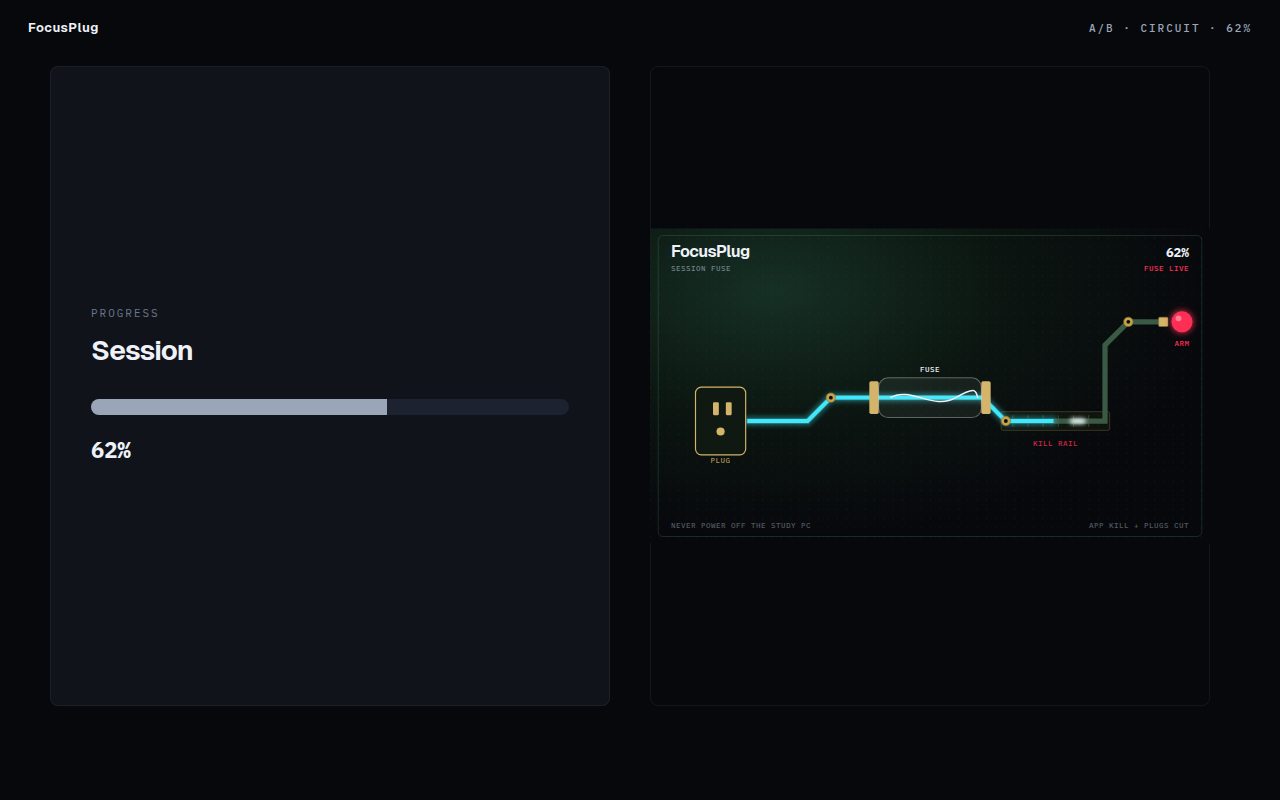
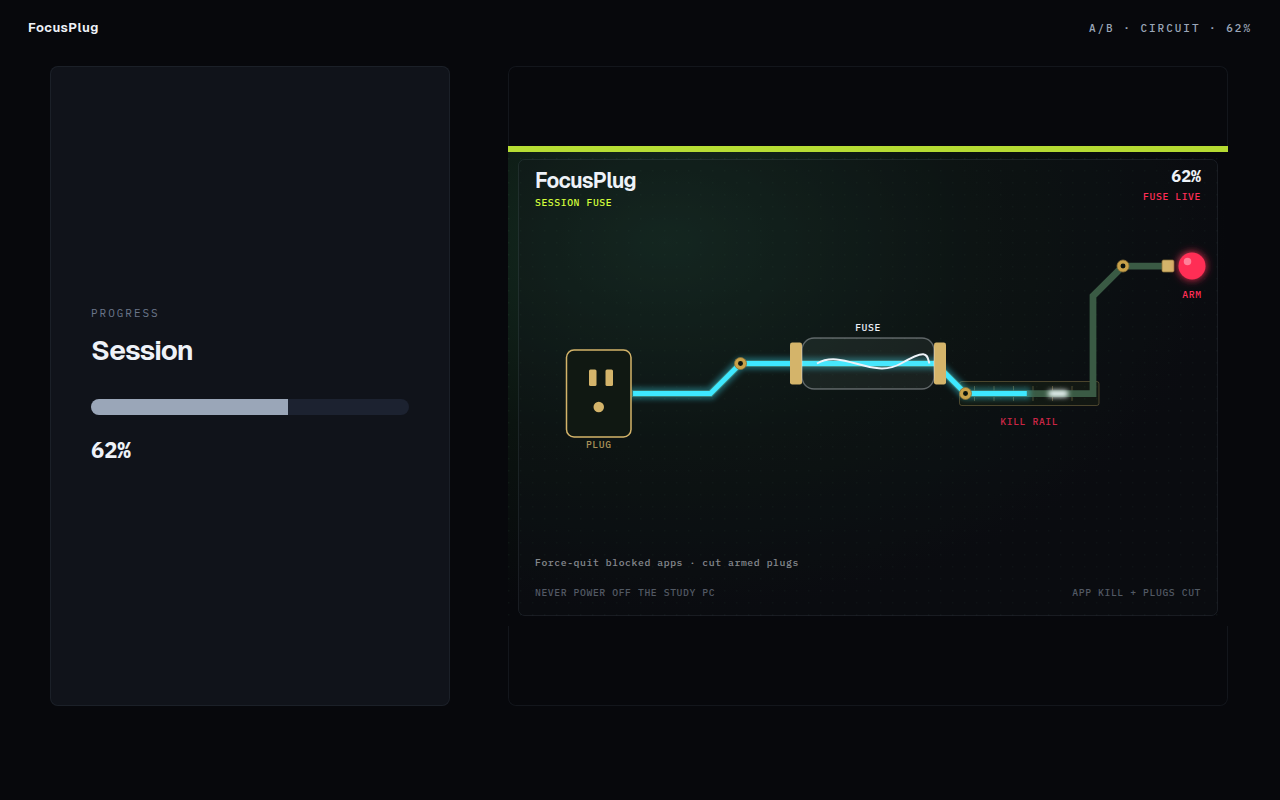
faces: Circuit fills the console pane with lime chrome
Taller fuse-plate viewBox, lime title bar, session-consequence copy,
and a wider A/B pane so Circuit is a product surface, not a stamp.

diff --git a/src/renderer/src/features/faces/circuit/CircuitFace.tsx b/src/renderer/src/features/faces/circuit/CircuitFace.tsx
@@ -67,21 +67,22 @@ export function CircuitFace(props: FaceProps): JSX.Element {
 
         <rect width={CIRCUIT_VIEW.width} height={CIRCUIT_VIEW.height} fill="url(#fp-circuit-wash)" />
         <rect width={CIRCUIT_VIEW.width} height={CIRCUIT_VIEW.height} fill="url(#fp-circuit-grid)" />
+        <rect x="0" y="0" width={CIRCUIT_VIEW.width} height="8" fill="#d4ff3a" opacity="0.85" />
         <rect
           x="14"
-          y="12"
+          y="18"
           width={CIRCUIT_VIEW.width - 28}
-          height={CIRCUIT_VIEW.height - 24}
+          height={CIRCUIT_VIEW.height - 32}
           rx="8"
-          fill="none"
-          stroke="rgba(90, 160, 110, 0.28)"
-          strokeWidth="1.4"
+          fill="rgba(16,19,26,0.35)"
+          stroke="rgba(170, 190, 220, 0.12)"
+          strokeWidth="1.2"
         />
 
-        <text x={36} y={48} className="fp-circuit-word" fill="#eef2f8">
+        <text x={36} y={56} className="fp-circuit-word" fill="#eef2f8">
           FocusPlug
         </text>
-        <text x={36} y={72} className="fp-circuit-silk" fill="rgba(155,166,184,0.72)">
+        <text x={36} y={80} className="fp-circuit-silk" fill="#d4ff3a">
           SESSION FUSE
         </text>
         <text
@@ -129,12 +130,15 @@ export function CircuitFace(props: FaceProps): JSX.Element {
           {complete ? "ON" : "ARM"}
         </text>
 
-        <text x={36} y={514} className="fp-circuit-silk" fill="rgba(155,166,184,0.5)">
+        <text x={36} y={560} className="fp-circuit-silk" fill="rgba(238,242,248,0.55)">
+          Force-quit blocked apps · cut armed plugs
+        </text>
+        <text x={36} y={600} className="fp-circuit-silk" fill="rgba(155,166,184,0.5)">
           NEVER POWER OFF THE STUDY PC
         </text>
         <text
           x={CIRCUIT_VIEW.width - 36}
-          y={514}
+          y={600}
           textAnchor="end"
           className="fp-circuit-silk"
           fill="rgba(155,166,184,0.5)"

diff --git a/src/renderer/src/features/faces/preview/FacesPreview.tsx b/src/renderer/src/features/faces/preview/FacesPreview.tsx
@@ -45,7 +45,7 @@ export function FacesPreview(): JSX.Element {
   const title = query.kind === "bar" ? "Plain bar" : FACE_CATALOG[query.kind].title;
 
   const soloSize = useMemo(() => ({ width: 1120, height: 680 }), []);
-  const splitSize = useMemo(() => ({ width: 560, height: 640 }), []);
+  const splitSize = useMemo(() => ({ width: 720, height: 640 }), []);
 
   return (
     <div className="fp-faces-stage" data-preview-kind={query.kind} data-preview-vs={query.vs ? "1" : "0"}>
@@ -60,7 +60,7 @@ export function FacesPreview(): JSX.Element {
           <PlainBar progress={query.progress} width={1120} height={680} />
         ) : query.vs ? (
           <div className="fp-faces-split">
-            <PlainBar progress={query.progress} width={560} height={640} />
+            <PlainBar progress={query.progress} width={400} height={640} />
             <FaceById id={query.kind} face={faceProps(query, splitSize)} />
           </div>
         ) : (

diff --git a/src/renderer/src/features/faces/circuit/path.ts b/src/renderer/src/features/faces/circuit/path.ts
@@ -17,7 +17,7 @@ export const CIRCUIT_POINTS: readonly CircuitPoint[] = [
   { x: 880, y: 160 },
 ];
 
-export const CIRCUIT_VIEW = { width: 960, height: 540 } as const;
+export const CIRCUIT_VIEW = { width: 960, height: 640 } as const;
 
 export function polylineLength(points: readonly CircuitPoint[]): number {
   if (points.length < 2) {

diff --git a/src/renderer/src/features/faces/preview/preview.css b/src/renderer/src/features/faces/preview/preview.css
@@ -35,8 +35,8 @@
 
 .fp-faces-split {
   display: grid;
-  grid-template-columns: 1fr 1fr;
-  gap: 20px;
+  grid-template-columns: minmax(280px, 0.38fr) minmax(0, 0.62fr);
+  gap: 16px;
   width: min(1180px, 100%);
   height: min(680px, 100%);
 }
